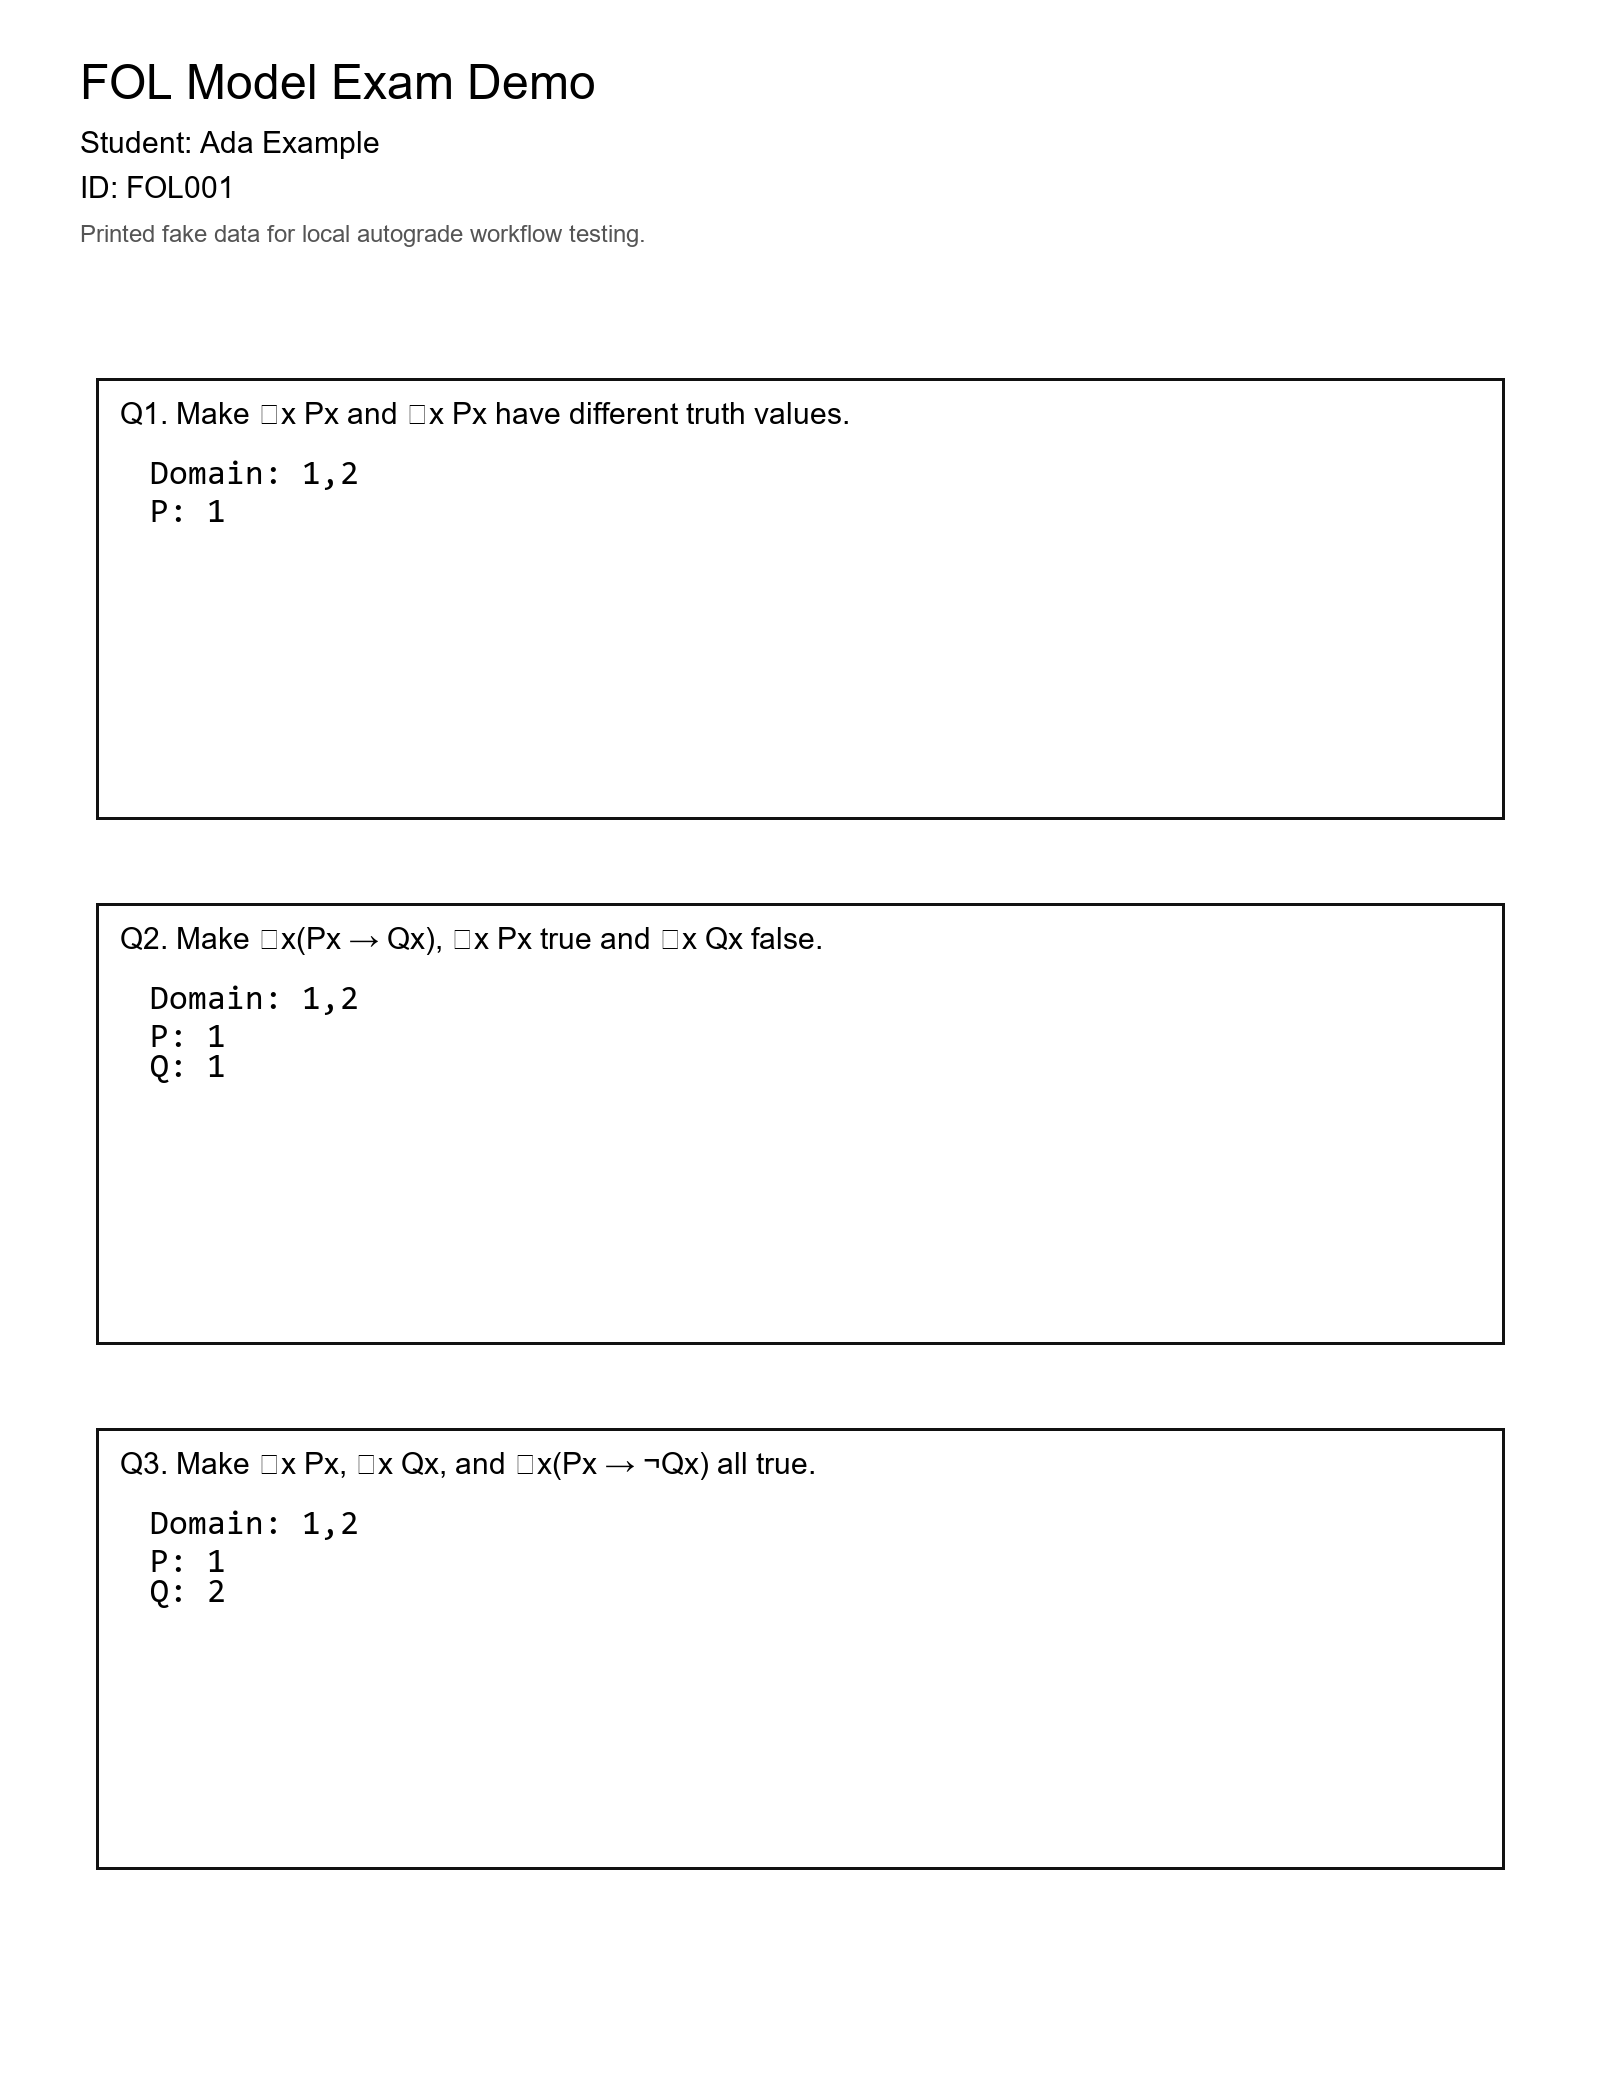
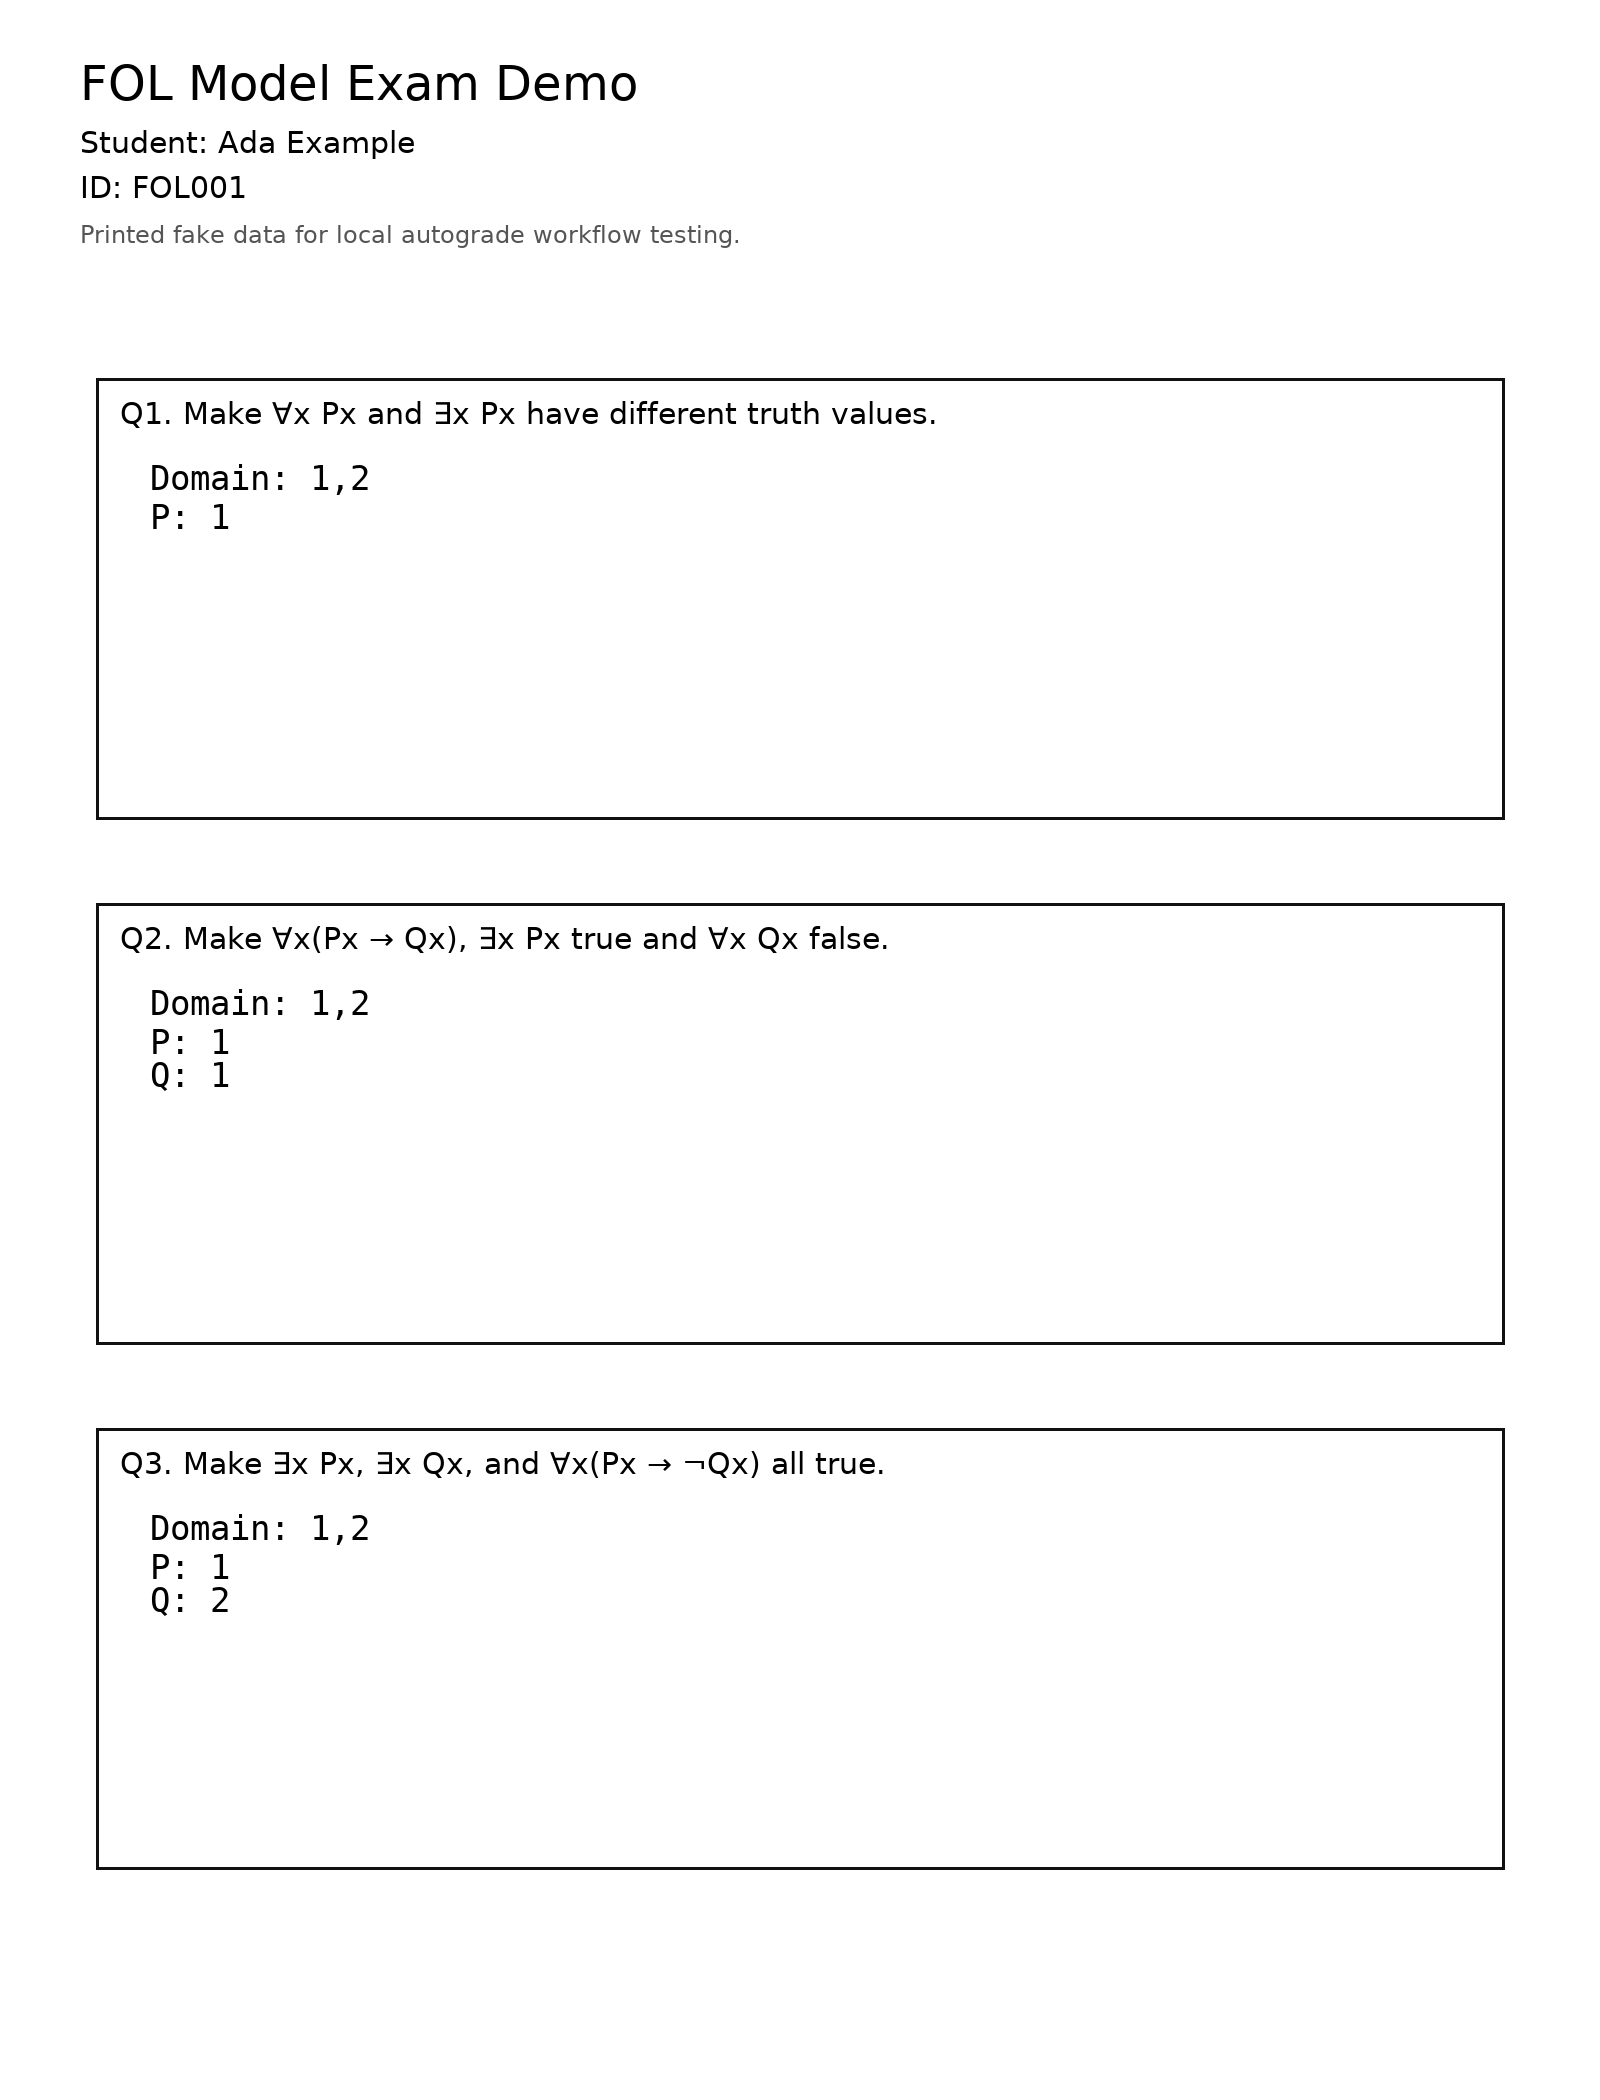
fol_model: clarify demo targets and quantifier fonts

diff --git a/app/templates/problem_strips.html b/app/templates/problem_strips.html
@@ -643,6 +643,20 @@
       margin: 0;
       color: #334155;
     }
+    .problem-context .autograde-target {
+      margin-top: 0.75rem;
+      padding-top: 0.75rem;
+      border-top: 1px solid #e5e7eb;
+    }
+    .problem-context .autograde-target ul {
+      margin: 0.35rem 0 0 1.2rem;
+      padding: 0;
+      color: #334155;
+      line-height: 1.4;
+    }
+    .problem-context .autograde-target li {
+      margin: 0.15rem 0;
+    }
 
     .problem-note label {
       display: block;
@@ -741,6 +755,16 @@
       <p><strong>What the problem asked:</strong> {{ problem_spec.prompt }}</p>
     {% else %}
       <p><strong>What the problem asked:</strong> No prompt saved in the rubric for this problem yet.</p>
+    {% endif %}
+    {% if fol_model_task_details %}
+      <div class="autograde-target">
+        <p><strong>Autograde target:</strong></p>
+        <ul>
+          {% for detail in fol_model_task_details %}
+            <li>{{ detail }}</li>
+          {% endfor %}
+        </ul>
+      </div>
     {% endif %}
   </section>
 

diff --git a/app/fol_model_review.py b/app/fol_model_review.py
@@ -414,6 +414,28 @@ def requirement_text_from_config(autograde_config: Mapping[str, Any]) -> str:
     return "Need: every target sentence true in this model."
 
 
+def task_details_from_config(autograde_config: Mapping[str, Any]) -> List[str]:
+    task_kind = str(autograde_config.get("task_kind") or "truth_value").strip() or "truth_value"
+    prompt_data = autograde_config.get("prompt_data") if isinstance(autograde_config.get("prompt_data"), dict) else {}
+    details = [requirement_text_from_config(autograde_config)]
+    if not isinstance(prompt_data, dict):
+        return details
+
+    if task_kind == "non_validity":
+        premises = prompt_data.get("premises")
+        if isinstance(premises, list) and premises:
+            details.append("Premises: " + "; ".join(str(item) for item in premises))
+        conclusion = prompt_data.get("conclusion")
+        if conclusion:
+            details.append("Conclusion: " + str(conclusion))
+        return details
+
+    formulas = prompt_data.get("formulas")
+    if isinstance(formulas, list) and formulas:
+        details.append("Targets: " + "; ".join(str(item) for item in formulas))
+    return details
+
+
 def _update_item(grades_dir: Path, problem_id: str, unit_id: int, updates: Mapping[str, Any]) -> None:
     with _state_lock:
         state = load_fol_model_state(grades_dir, problem_id)

diff --git a/scripts/generate_fol_model_exam_demo.py b/scripts/generate_fol_model_exam_demo.py
@@ -94,7 +94,22 @@ STUDENTS: List[DemoStudent] = [
 
 
 def _load_font(size: int, *, mono: bool = False) -> ImageFont.ImageFont:
-    candidates = ["consola.ttf", "cour.ttf"] if mono else ["arial.ttf", "calibri.ttf"]
+    if mono:
+        candidates = [
+            "DejaVuSansMono.ttf",
+            str(Path("C:/Windows/Fonts/DejaVuSansMono.ttf")),
+            "consola.ttf",
+            "cour.ttf",
+        ]
+    else:
+        candidates = [
+            "DejaVuSans.ttf",
+            str(Path("C:/Windows/Fonts/DejaVuSans.ttf")),
+            "seguisym.ttf",
+            str(Path("C:/Windows/Fonts/seguisym.ttf")),
+            "arial.ttf",
+            "calibri.ttf",
+        ]
     for candidate in candidates:
         try:
             return ImageFont.truetype(candidate, size=size)
@@ -132,7 +147,7 @@ def _write_rubric(root: Path) -> None:
                 "problem_type": "fol_model",
                 "section": "FOL Models",
                 "problem_number": "1",
-                "prompt": "Give a model showing that forall x Px and exists x Px are not equivalent.",
+                "prompt": "Give a model showing that ∀x Px and ∃x Px are not equivalent.",
                 "segmentation_hint": "Look for the printed Q1 model answer box.",
                 "autograde": {
                     "task_kind": "non_equivalence",

diff --git a/tests/test_problem_strips_routes.py b/tests/test_problem_strips_routes.py
@@ -85,6 +85,7 @@ class ProblemStripsRoutesTests(unittest.TestCase):
         self.assertIn("Berry, Sharon", response.text)
         self.assertIn("What the problem asked", response.text)
         self.assertIn("Create a model making the target sentence false.", response.text)
+        self.assertNotIn("Autograde target", response.text)
 
     def test_problem_type_post_updates_session(self) -> None:
         session = _build_session()
@@ -132,7 +133,9 @@ class ProblemStripsRoutesTests(unittest.TestCase):
         self.assertIn("fol model", response.text.lower())
         self.assertIn('data-type="fol_model"', response.text)
         self.assertIn("FOL model checker", response.text)
+        self.assertIn("Autograde target", response.text)
         self.assertIn("Need: the two target sentences have different truth values.", response.text)
+        self.assertIn("Targets: ∀x Px; ∃x Px", response.text)
 
     def test_fol_model_check_endpoint_saves_and_runs_checker(self) -> None:
         session = _build_session()

diff --git a/app/routes/problem_strips.py b/app/routes/problem_strips.py
@@ -20,6 +20,7 @@ from app.fol_model_review import (
     enqueue_fol_model_ocr_jobs,
     public_fol_model_status,
     requirement_text_from_config,
+    task_details_from_config,
 )
 from app.proof_ocr_review import (
     accept_fitch_ocr_review,
@@ -747,6 +748,9 @@ def get_problem_strips(
             "problem_label": spec.label,
             "problem_spec": spec,
             "problem_locator_text": _build_problem_locator_text(spec),
+            "fol_model_task_details": task_details_from_config(_require_autograde_config(spec))
+            if effective_problem_type == "fol_model"
+            else [],
             "strips": strips,
             "max_points": spec.points,
             "problem_note": session.problem_notes.get(problem_id, ""),

diff --git a/tests/test_fol_model_exam_demo.py b/tests/test_fol_model_exam_demo.py
@@ -29,6 +29,7 @@ class FolModelExamDemoTests(unittest.TestCase):
         self.assertEqual(session["grading_key"]["quiz_id"], "fol_model_exam_demo")
         self.assertEqual(len(session["work_units"]), len(STUDENTS))
         self.assertEqual(session["grading_key"]["problems"][0]["problem_type"], "fol_model")
+        self.assertIn("∀x Px", session["grading_key"]["problems"][0]["prompt"])
 
         for problem_id in ("Q1", "Q2", "Q3"):
             segments = json.loads((self.tmp_dir / "grades" / f"segments_{problem_id}.json").read_text(encoding="utf-8"))
